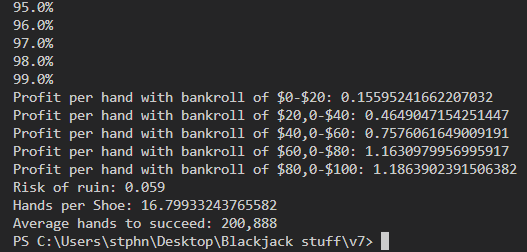
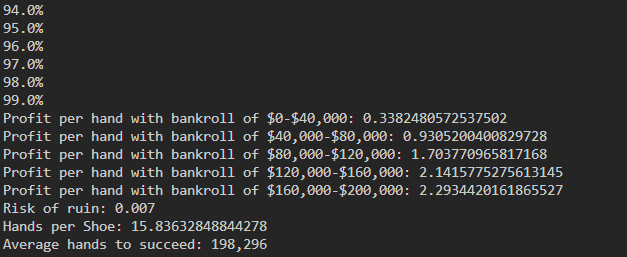
minor tweaks

Changed region(s): [[0.0, 0.0, 1.0, 1.0]]

diff --git a/v7/blackjack.java b/v7/blackjack.java
@@ -40,7 +40,7 @@ public class blackjack {
     public static double kellyBetMultiplier = -1;
     //simulation settings
     public static int numShoes = -1, numCareers = 1000;
-    public static double startingBankroll = 10000,successThresholdPerBankroll = 10;
+    public static double startingBankroll = 20000,successThresholdPerBankroll = 10;
     public static int numUpdates = 100;//see update method
     public static int numProfitDivisions = 5;//how many sections should be used for "Profit per hand with Bankroll X-Y: (Profit)"
 
@@ -65,7 +65,9 @@ public class blackjack {
         if(num <= 0) return num+"";
         String toReturn = "";
         while(num > 0) {
-            toReturn = (num%1000)+","+toReturn;
+            String attach = num%1000 + "";
+            while(attach.length()<3 && num>=1000) attach = "0"+attach;
+            toReturn = attach+","+toReturn;
             num /= 1000;
         }
         return toReturn.substring(0,toReturn.length()-1);
@@ -106,7 +108,7 @@ public class blackjack {
                 }
             }
             for(int i = 0; i<numProfitDivisions; i++) {
-                String toLog = "Profit per hand with bankroll of $"+addCommas((int)(maxBankroll*i/numProfitDivisions))+"-$"+(int)(maxBankroll*(i+1)/numProfitDivisions/1000)+": "+(profitByBankroll[i]/handsByBankroll[i]);
+                String toLog = "Profit per hand with bankroll of $"+addCommas((int)(maxBankroll*i/numProfitDivisions))+"-$"+addCommas((int)(maxBankroll*(i+1)/numProfitDivisions))+": "+(profitByBankroll[i]/handsByBankroll[i]);
                 logln(toLog);
             }
             logln("Risk of ruin: "+((double)numRuins/numCareers));
